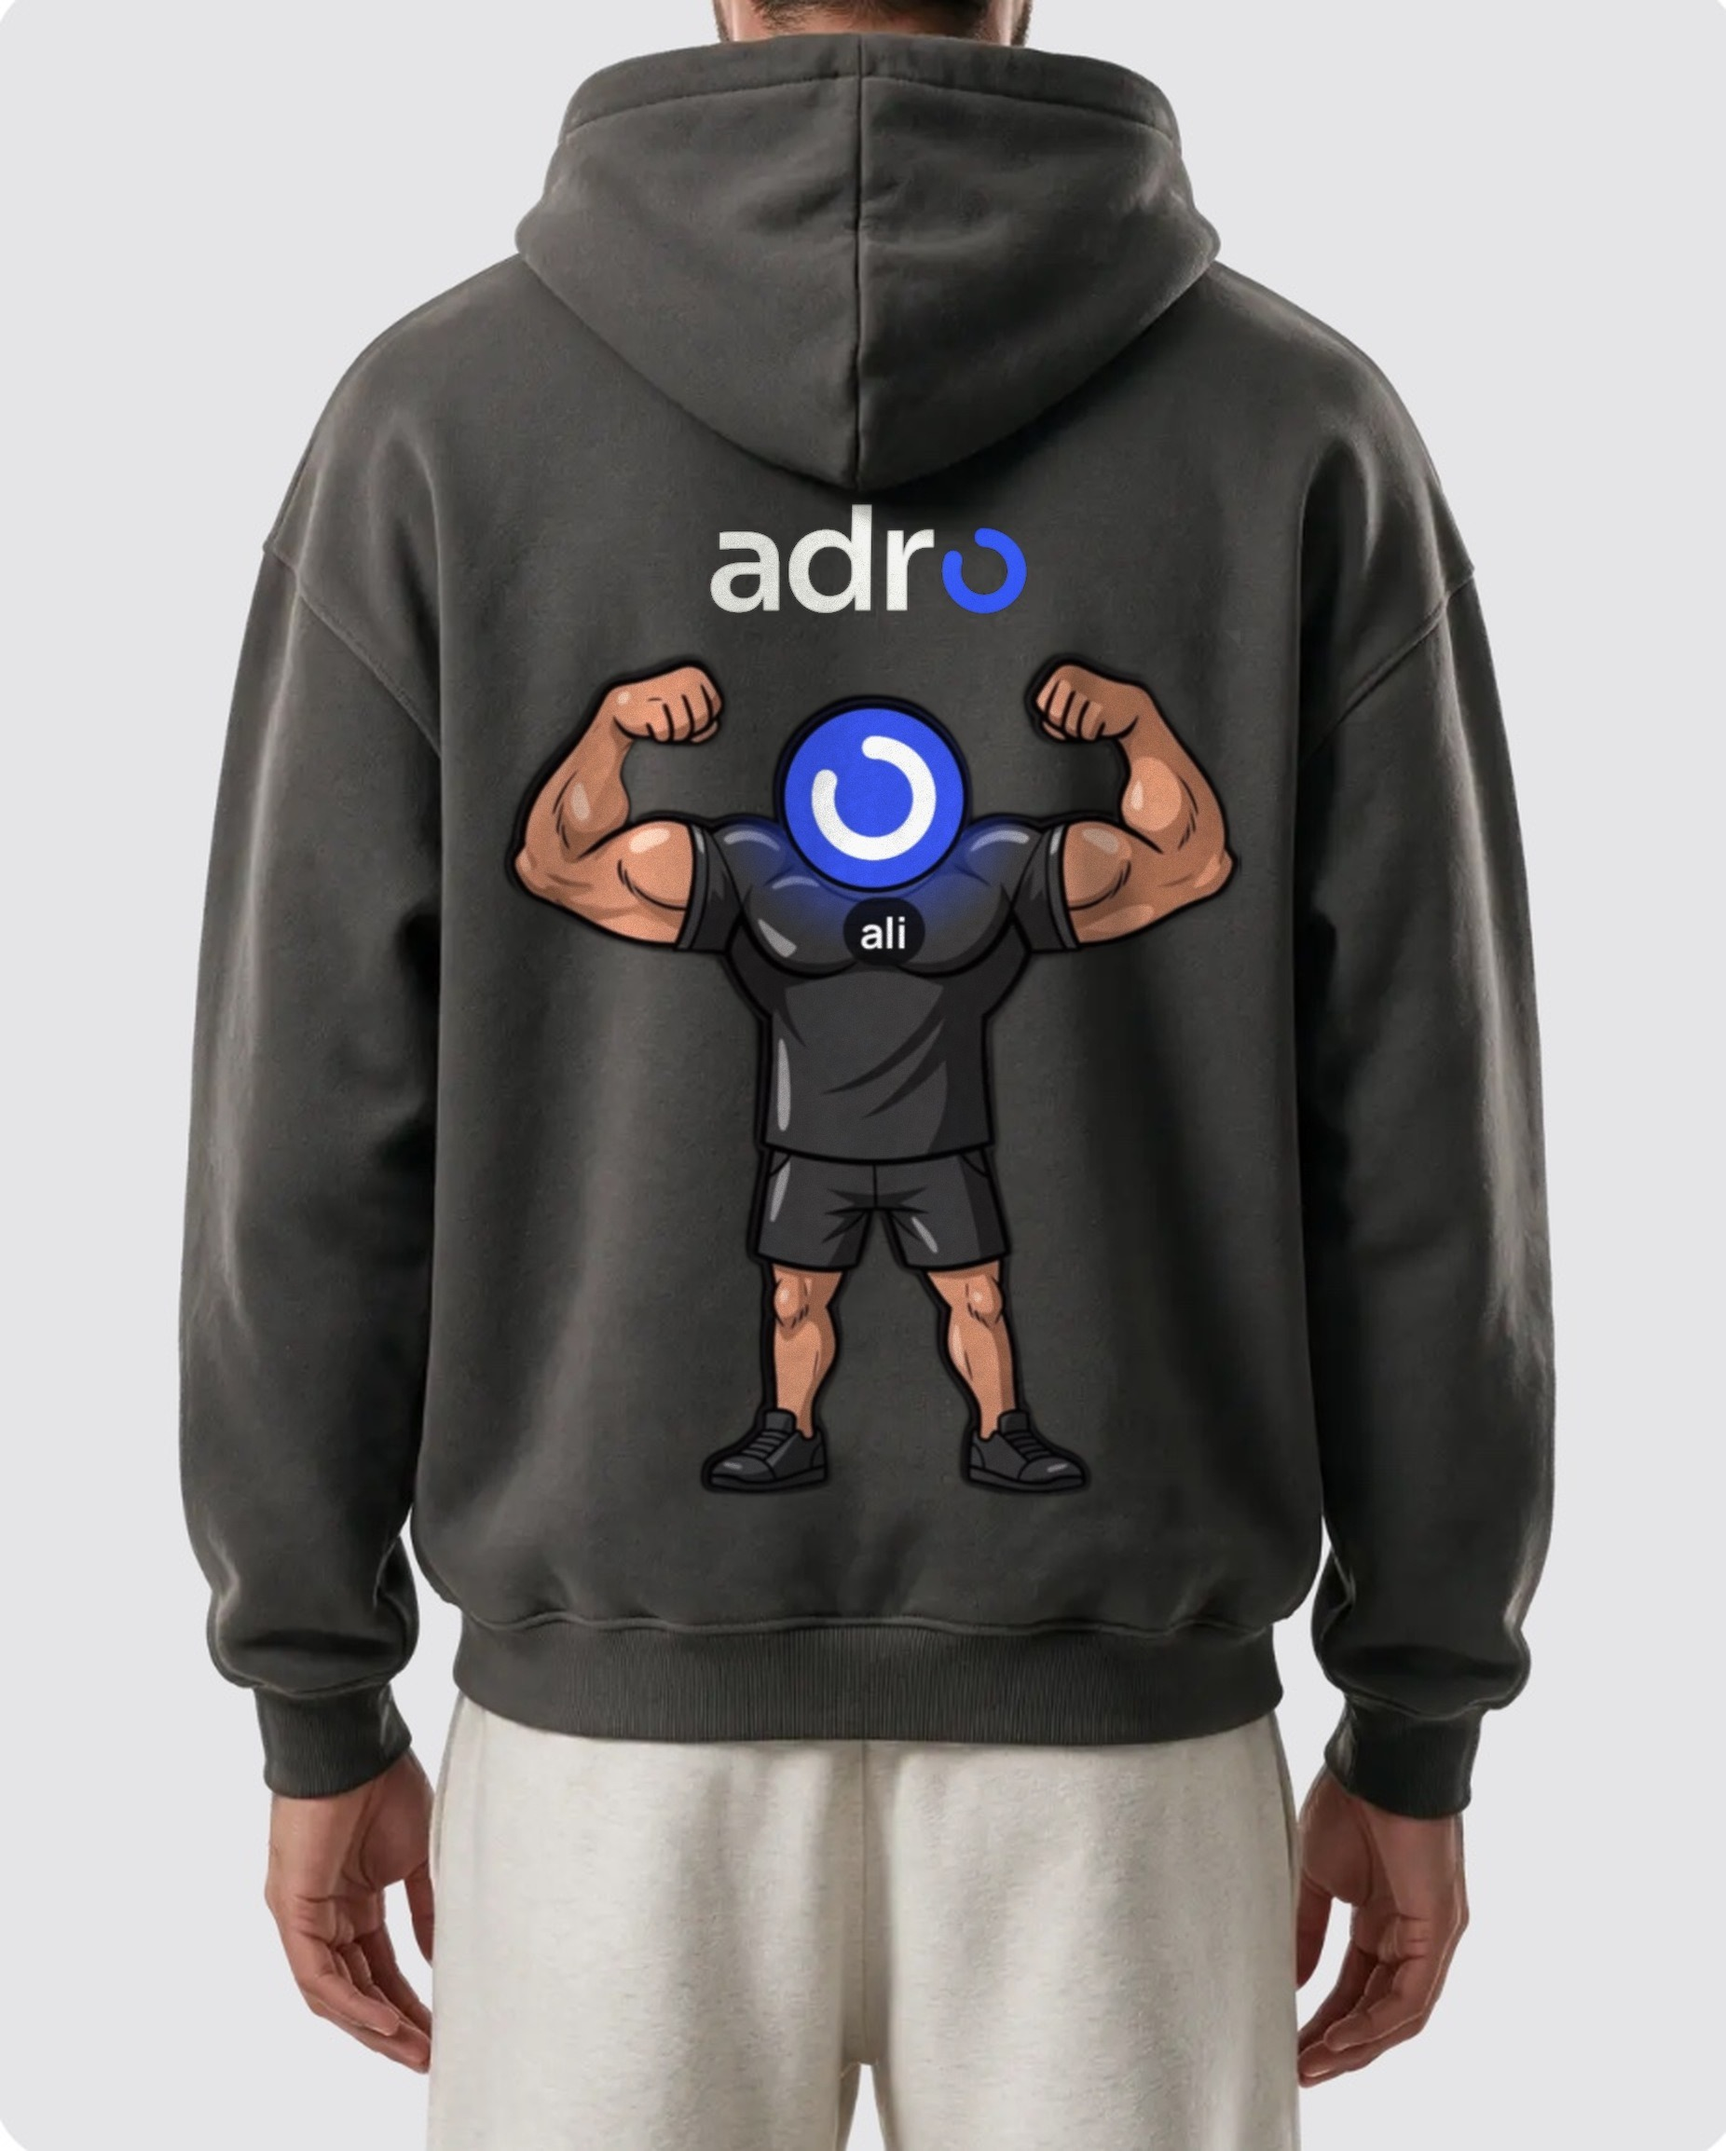
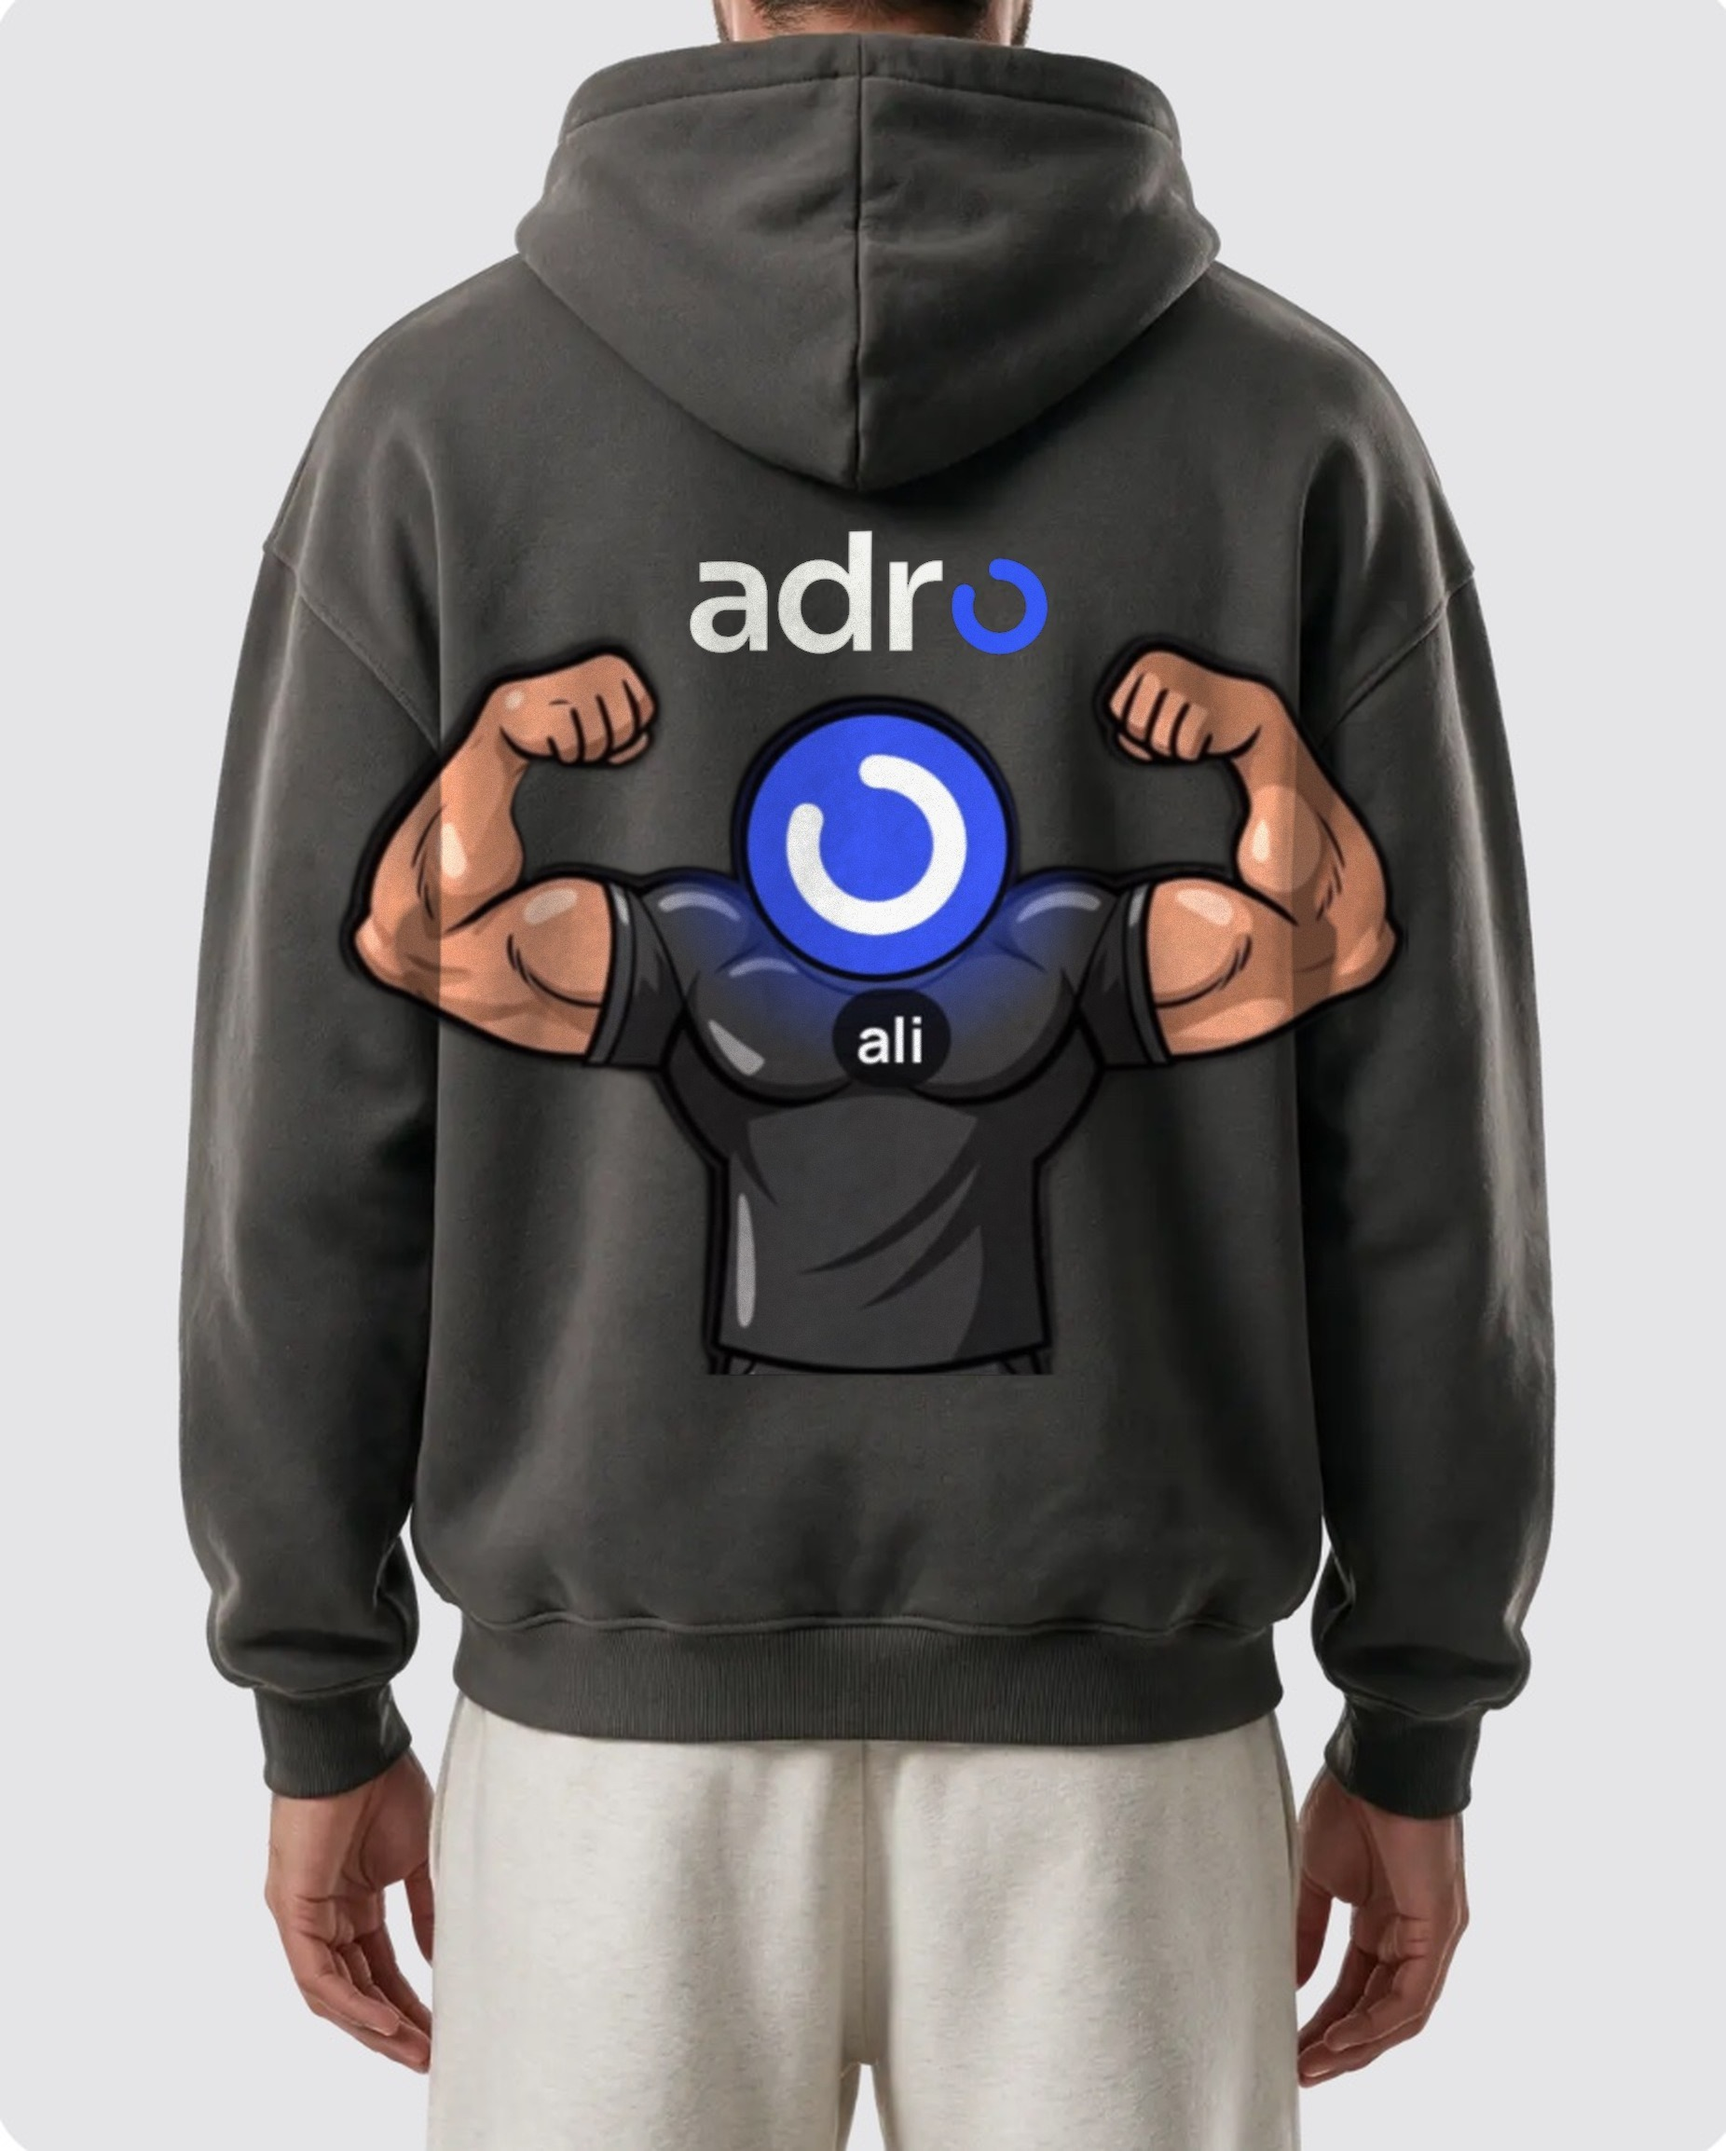
Brand: ali hoodie in the owner's half-body layout
Claude-Session: https://claude.ai/code/session_01JFp6iswHHaXm5YTZNqTb2P

Changed region(s): [[0.1847, 0.2184, 0.831, 0.7175]]

diff --git a/docs/brand/clothes/hoodie-pulse/v17-ali/README.md b/docs/brand/clothes/hoodie-pulse/v17-ali/README.md
@@ -1,5 +1,5 @@
-# Hoodie: ali (owner's design, tidied)
+# Hoodie: ali (owner's design, tidied, same layout)
 
-Back: the adro logo centered under the hood (art_chest.svg, about 19 cm wide), then the full muscle character with the ring head and "ali" (art_ali.png, about 40 cm wide), whole body from fists to shoes, centered, ending above the rib hem.
+Back, as the owner laid it out: the adro logo centered at the top (art_chest.svg, about 22 cm wide), then the muscle character cut at the waist (art_ali_half.png, about 58 cm wide, arms flexed across the shoulders), ring head with "ali" under it, the shirt ending in a straight line above the hem.
 Front and sleeves: the chosen base (blue ring, sleeve lines).
-Print: full colour, so DTF or DTG, not screen print. The character file is 803 x 951 px; for a 40 cm print it needs upscaling to about 4700 px wide (300 dpi) or redrawing as vector first.
+Print: full colour, so DTF or DTG. The character file is small (803 px wide); for a 58 cm print it needs upscaling to about 6800 px (300 dpi) or redrawing as vector first.
